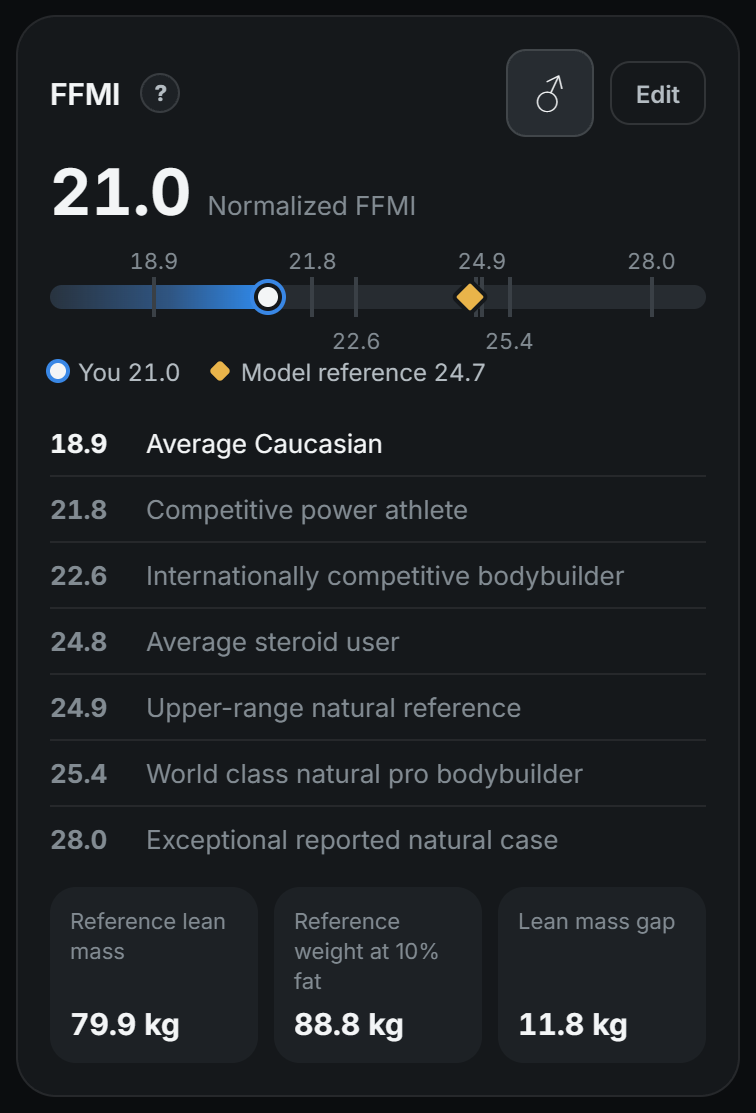
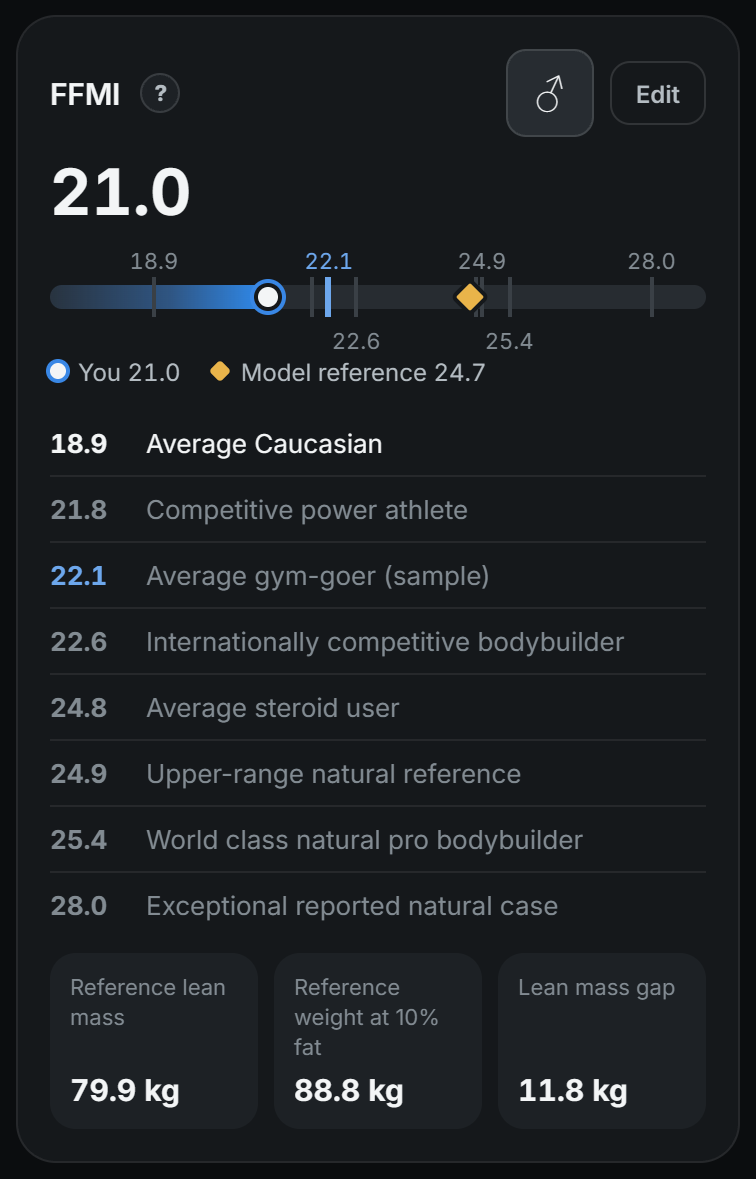
Add researched gym-goer sample points to the FFMI scale

diff --git a/frontend/src/FfmiCard.tsx b/frontend/src/FfmiCard.tsx
@@ -4,11 +4,11 @@ import { FfmiHelp } from './FfmiHelp';
 import { PopupDialog } from './PopupDialog';
 import {
   DEFAULT_FFMI_PROFILE,
-  FFMI_COMPARISON,
   FFMI_TICK_LABELS_BELOW,
   FFMI_UNLABELLED_TICKS,
   ffmiScalePercent,
   ffmiScore,
+  ffmiComparisons,
   latestBodyFatMeasurement,
   lengthFromCm,
   lengthToCm,
@@ -31,18 +31,37 @@ function inputValue(cm: number | null, unit: 'kg' | 'lb'): string {
   return cm === null ? '' : String(lengthFromCm(cm, unit));
 }
 
-export function FfmiScale({ ffmi, maxFfmi }: { ffmi: number; maxFfmi: number | null }) {
+export function FfmiScale({
+  ffmi,
+  maxFfmi,
+  sex,
+}: {
+  ffmi: number;
+  maxFfmi: number | null;
+  sex: 'male' | 'female';
+}) {
+  const comparisons = ffmiComparisons(sex);
+  const gym = comparisons.find((point) => point.gym)!;
   const position = (value: number) => ({ left: `${ffmiScalePercent(value)}%` }) as CSSProperties;
   const labels = (below: boolean) => (
     <div className={`ffmi-scale-ticks${below ? ' below' : ''}`} aria-hidden="true">
-      {FFMI_COMPARISON.filter(
-        ({ value }) =>
-          !FFMI_UNLABELLED_TICKS.has(value) && FFMI_TICK_LABELS_BELOW.has(value) === below,
-      ).map(({ value }) => (
-        <span key={value} className="ffmi-scale-tick" style={position(value)}>
-          <i>{value.toFixed(1)}</i>
-        </span>
-      ))}
+      {comparisons
+        .filter(
+          ({ value }) =>
+            !FFMI_UNLABELLED_TICKS.has(value) &&
+            // The new male 22.1 label is too close to 21.8; both points stay in the legend.
+            !(sex === 'male' && value === 21.8) &&
+            FFMI_TICK_LABELS_BELOW.has(value) === below,
+        )
+        .map(({ value, gym }) => (
+          <span
+            key={value}
+            className={`ffmi-scale-tick${gym ? ' gym' : ''}`}
+            style={position(value)}
+          >
+            <i>{value.toFixed(1)}</i>
+          </span>
+        ))}
     </div>
   );
   return (
@@ -51,11 +70,15 @@ export function FfmiScale({ ffmi, maxFfmi }: { ffmi: number; maxFfmi: number | n
       <div
         className="ffmi-scale-track"
         role="img"
-        aria-label={`Your FFMI ${ffmi.toFixed(1)}${maxFfmi === null ? '' : `, model reference ${maxFfmi.toFixed(1)}`}, on a scale from 17 to 29`}
+        aria-label={`Your FFMI ${ffmi.toFixed(1)}${maxFfmi === null ? '' : `, model reference ${maxFfmi.toFixed(1)}`}, average ${sex} gym-goer sample ${gym.value.toFixed(1)}, on a scale from 17 to 29`}
       >
         <span className="ffmi-scale-fill" style={{ width: `${ffmiScalePercent(ffmi)}%` }} />
-        {FFMI_COMPARISON.map(({ value }) => (
-          <span key={value} className="ffmi-scale-line" style={position(value)} />
+        {comparisons.map(({ value, gym }) => (
+          <span
+            key={value}
+            className={`ffmi-scale-line${gym ? ' gym' : ''}`}
+            style={position(value)}
+          />
         ))}
         {maxFfmi !== null && <span className="ffmi-scale-marker max" style={position(maxFfmi)} />}
         <span className="ffmi-scale-marker you" style={position(ffmi)} />
@@ -247,12 +270,11 @@ export function FfmiCard({
         <>
           <div className="ffmi-score">
             <strong>{ffmi.toFixed(1)}</strong>
-            <span>{profile.sex === 'male' ? 'Normalized FFMI' : 'Gender-adjusted FFMI'}</span>
           </div>
-          <FfmiScale ffmi={ffmi} maxFfmi={potential?.maxFfmi ?? null} />
+          <FfmiScale ffmi={ffmi} maxFfmi={potential?.maxFfmi ?? null} sex={profile.sex!} />
           <ol className="ffmi-legend">
-            {FFMI_COMPARISON.map(({ value, label }) => (
-              <li key={value} className={ffmi >= value ? 'reached' : ''}>
+            {ffmiComparisons(profile.sex!).map(({ value, label, gym }) => (
+              <li key={value} className={`${ffmi >= value ? 'reached' : ''}${gym ? ' gym' : ''}`}>
                 <strong>{value.toFixed(1)}</strong>
                 <span>{label}</span>
               </li>

diff --git a/frontend/src/FfmiCard.test.tsx b/frontend/src/FfmiCard.test.tsx
@@ -92,12 +92,28 @@ describe('FfmiCard', () => {
     );
     expect(host.querySelectorAll('.ffmi-model-toggle')).toHaveLength(1);
     expect(modelButton().textContent?.trim()).toBe('\u2642');
+    expect(host.querySelector('.ffmi-legend .gym')?.textContent).toBe(
+      '22.1Average gym-goer (sample)',
+    );
+    expect(
+      parseFloat((host.querySelector('.ffmi-scale-line.gym') as HTMLElement).style.left),
+    ).toBeCloseTo(42.5);
+    expect(host.querySelector('.ffmi-score span')).toBeNull();
 
     await act(async () => modelButton().click());
     expect(api.updateFfmiProfile).toHaveBeenLastCalledWith({ ...stored, sex: 'female' });
     expect(host.querySelector('.ffmi-scale-key')?.textContent).toBe('You 21.2Model reference 24.7');
     expect(modelButton().getAttribute('aria-label')).toBe('Female FFMI model. Switch to male.');
     expect(modelButton().textContent?.trim()).toBe('\u2640');
+    expect(host.querySelector('.ffmi-legend .gym')?.textContent).toBe(
+      '20.6Average gym-goer (sample)',
+    );
+    expect(
+      parseFloat((host.querySelector('.ffmi-scale-line.gym') as HTMLElement).style.left),
+    ).toBeCloseTo(30);
+    expect(host.querySelector('.ffmi-scale-track')?.getAttribute('aria-label')).toContain(
+      'average female gym-goer sample 20.6',
+    );
 
     await act(async () => root.render(null));
     await act(async () => root.render(<FfmiCard measurements={measurements} />));
@@ -202,7 +218,7 @@ describe('FfmiCard', () => {
     expect(api.updateFfmiProfile).toHaveBeenCalledWith(saved);
     expect(host.querySelector('.ffmi-score strong')?.textContent).toBe('22.9');
     expect(host.querySelector('.ffmi-scale-key')?.textContent).toBe('You 22.9Model reference 26.9');
-    expect(host.querySelectorAll('.ffmi-legend li.reached')).toHaveLength(3);
+    expect(host.querySelectorAll('.ffmi-legend li.reached')).toHaveLength(4);
     expect(host.querySelector('.ffmi-potential')?.textContent).toContain(
       'Reference weight at 13% fat',
     );
@@ -237,7 +253,7 @@ describe('FfmiCard', () => {
     await render({ ...emptyProfile, sex: 'female', height_cm: 165 }, [
       { ...measurements[0], weight_kg: 60, body_fat_pct: 22 },
     ]);
-    expect(host.querySelector('.ffmi-score span')?.textContent).toBe('Gender-adjusted FFMI');
+    expect(host.querySelector('.ffmi-score span')).toBeNull();
     expect(host.querySelector('.ffmi-scale-key')?.textContent).toBe('You 21.2Model reference 24.7');
   });
 });

diff --git a/frontend/src/FfmiHelp.tsx b/frontend/src/FfmiHelp.tsx
@@ -64,6 +64,14 @@ export function FfmiHelp({ title = 'FFMI', children }: { title?: string; childre
                 be above or below these model assumptions.
               </p>
               <p>
+                <strong>Gym-goer comparison.</strong> The extra point shows a training-sample
+                average: 22.1 for men, or 20.6 for women on this app's adjusted scale (16.7 before
+                adjustment). These come from separate, mostly young training groups, not a
+                representative survey of all gym members or a drug-free standard. The male sample
+                used self-reported body measurements; the female sample used scans. Training
+                experience, age and measurement method affect comparisons.
+              </p>
+              <p>
                 <strong>Reading the comparison.</strong> A model reference of 24.7 and the
                 exceptional reported case at 28.0 are different comparisons, not guaranteed
                 outcomes. The men's model assumes roughly 4 to 12% body fat. Measurement errors

diff --git a/frontend/src/ffmi.ts b/frontend/src/ffmi.ts
@@ -23,11 +23,23 @@ export const FFMI_COMPARISON: readonly { value: number; label: string }[] = [
   { value: 28.0, label: 'Exceptional reported natural case' },
 ];
 
+/** Training-sample means, not representative gym-member norms. See docs/FFMI-BENCHMARKS.md. */
+export function ffmiComparisons(sex: 'male' | 'female') {
+  const gym = {
+    value: sex === 'male' ? roundOne(22.09) : roundOne(16.7 / 0.81),
+    label: 'Average gym-goer (sample)',
+    gym: true,
+  };
+  return [...FFMI_COMPARISON.map((point) => ({ ...point, gym: false })), gym].sort(
+    (a, b) => a.value - b.value,
+  );
+}
+
 /** 24.8 sits on top of 24.9, so only the legend names it. */
 export const FFMI_UNLABELLED_TICKS = new Set([24.8]);
 
 /** Neighbours too close to label on the same side of a phone-width scale. */
-export const FFMI_TICK_LABELS_BELOW = new Set([22.6, 25.4]);
+export const FFMI_TICK_LABELS_BELOW = new Set([20.6, 22.6, 25.4]);
 
 export const DEFAULT_FFMI_PROFILE: FfmiProfile = {
   sex: null,

diff --git a/frontend/src/ffmi.test.ts b/frontend/src/ffmi.test.ts
@@ -3,6 +3,7 @@ import {
   DEFAULT_FFMI_PROFILE,
   ffmiScalePercent,
   ffmiScore,
+  ffmiComparisons,
   latestBodyFatMeasurement,
   lengthFromCm,
   lengthToCm,
@@ -80,6 +81,22 @@ describe('naturalPotential', () => {
 });
 
 describe('FFMI helpers', () => {
+  it('plots training-sample means in the same units as each sex model, in scale order', () => {
+    for (const [sex, expected] of [
+      ['male', 22.1],
+      ['female', 20.6],
+    ] as const) {
+      const points = ffmiComparisons(sex);
+      expect(points.filter((point) => point.gym)).toEqual([
+        { value: expected, label: 'Average gym-goer (sample)', gym: true },
+      ]);
+      expect(points.map((point) => point.value)).toEqual(
+        points.map((point) => point.value).sort((a, b) => a - b),
+      );
+      expect(points).toHaveLength(8);
+    }
+  });
+
   it('uses the newest check-in that has body fat', () => {
     const measurements = [
       checkIn('2026-10-20', null),

diff --git a/frontend/src/FfmiHelp.test.tsx b/frontend/src/FfmiHelp.test.tsx
@@ -58,7 +58,9 @@ it.each(['FFMI', 'Body measurements'])(
       'not the general-public average or a prediction of your genetic limit.',
     );
     expect(document.querySelector('dialog a')).toBeNull();
-    expect(document.querySelectorAll('dialog p')).toHaveLength(5);
+    expect(document.querySelectorAll('dialog p')).toHaveLength(6);
+    expect(document.body.textContent).toContain('22.1 for men, or 20.6 for women');
+    expect(document.body.textContent).toContain('not a representative survey of all gym members');
     await act(async () => button('Back to overview').click());
     expect(document.querySelector('dialog h2')?.textContent).toBe(title);
     expect(document.body.textContent).not.toContain('Your score.');

diff --git a/frontend/src/ffmi.css b/frontend/src/ffmi.css
@@ -85,11 +85,6 @@ button.ffmi-methodology-link {
   line-height: 1;
 }
 
-.ffmi-score span {
-  color: var(--p-muted);
-  font-size: 0.8125rem;
-}
-
 .ffmi-scale {
   margin-top: 0.75rem;
 }
@@ -138,6 +133,16 @@ button.ffmi-methodology-link {
   width: 2px;
   transform: translateX(-50%);
   background: var(--p-axis);
+}
+
+.ffmi-scale-line.gym {
+  width: 3px;
+  background: var(--p-accent-text);
+}
+
+.ffmi-scale-tick.gym i,
+.ffmi-legend li.gym strong {
+  color: var(--p-accent-text);
 }
 
 .ffmi-scale-marker {

diff --git a/docs/RELEASE-NOTES.md b/docs/RELEASE-NOTES.md
@@ -34,11 +34,11 @@ _Select a body part to follow its own measurement history. Missing values are sk
 
 ![Short FFMI methodology summary explaining the model reference and measurement guidance](screenshots/releases/1.1.0-ffmi-methodology.png)
 
-_Both existing Body measurements and FFMI question-marks show a short introduction. Learn more opens the full methodology inside the app, with Back to overview. The explanation is summarised without study names or external source links._
+_Both existing Body measurements and FFMI question-marks show a short introduction. Learn more opens the full methodology inside the app, with Back to overview. The summary also explains the gym-goer sample means and adjustment, without study names or external source links._
 
 ![FFMI card with one sex icon button, score 21.0 and Model reference 24.7](screenshots/releases/1.1.0-ffmi.png)
 
-_Tap the single sex icon to switch models, save the selection and recalculate the comparison. Switching keeps saved measurements. Model reference is a trained-lifter benchmark adjusted using the selected profile, rather than a prediction of an individual genetic limit. Synthetic sample data._
+_Tap the single sex icon to switch models, save the selection and recalculate the comparison. Switching keeps saved measurements. Model reference is a trained-lifter benchmark adjusted using the selected profile, rather than a prediction of an individual genetic limit. The score subtitle is removed and the blue gym-goer sample point changes with the sex model. Synthetic sample data._
 
 ![Import review mapping Flat bench (old app) to Barbell Bench Press with no new exercises](screenshots/releases/1.1.0-import-exercise-mapping.png)
 
@@ -121,7 +121,7 @@ _The exercise card ends at Add set. Set notes and workout notes remain available
 _The circular Start button matches its workout choices. Isolated sample data._
 
 - **Body measurements:** log dated circumferences for neck, shoulders, chest, waist, hips, left/right upper arms, thighs and calves, wrist and ankle. Filter history by body part for dated values and changes from the previous recorded measurement, edit or delete entries, and use cm or inches with your unit preference. No weigh-in is required; records stay private and are included in account backups.
-- Body shows your FFMI on a 17 to 29 comparison scale alongside a Model reference benchmark. The reference is based on groups of trained lifters and uses the selected profile; it is not a prediction of your genetic limit or a general-public average. Reference lean mass, reference weight at your target body fat and the lean mass gap use the same model. Both existing question-marks offer brief help and an in-app Learn more explanation, now summarised without named studies or external source links. Tap the single sex icon beside FFMI to switch between male and female models, save the selection to your account and recalculate the scale. Height, wrist, ankle and target body fat stay saved when switching models, including through Edit.
+- Body shows your FFMI on a 17 to 29 comparison scale alongside a Model reference benchmark. The reference is based on groups of trained lifters and uses the selected profile; it is not a prediction of your genetic limit or a general-public average. Reference lean mass, reference weight at your target body fat and the lean mass gap use the same model. Both existing question-marks offer brief help and an in-app Learn more explanation, now summarised without named studies or external source links. Tap the single sex icon beside FFMI to switch between male and female models, save the selection to your account and recalculate the scale. Height, wrist, ankle and target body fat stay saved when switching models, including through Edit. The score subtitle has been removed. An extra gym-goer sample-average point switches between 22.1 for men and 20.6 for women on the adjusted scale; the help explains that these are separate training samples, not representative averages for all gym members.
 - In Equipment photo, choose Select to pick multiple saved machines, review their cover, name and future settings, then merge them. All photos and workout links are kept together, including older drafts; settings recorded in existing workouts stay unchanged.
 
 - Set your own five heart-rate zone ranges with Edit on Training > Cardio > Weekly zone goals, below History. Keep the default 150-minute weekly Zone 2 target, change its minutes or zone, and add separate weekly goals for other zones. Once ranges are set, average heart rate estimates each session's zone and only matching sessions count towards that zone's goal; missing or out-of-range heart rate receives no zone credit. Until then, sessions keep counting as Zone 2 as before. A brief text notification shows the result. Editing ranges recalculates existing sessions and goals; cardio logged inside workouts follows the same rules.

diff --git a/docs/FFMI-BENCHMARKS.md b/docs/FFMI-BENCHMARKS.md
@@ -1,0 +1,28 @@
+# FFMI gym-goer comparison
+
+The chart's **Average gym-goer (sample)** point is a training-sample reference, not a
+representative estimate of every gym member. It changes with the saved sex model.
+No source links or study names are rendered in the app's help.
+
+- **Men: 22.1.** Rounded from 22.09, the reported FFMI mean for 248 men who trained
+  with weights at least twice weekly. Their mean age was about 26, with roughly five
+  years of training. Body measurements were self-reported; some participants
+  reported performance-enhancing drug use. This is not a drug-free norm.
+  [Original research, table 1 and methods](https://www.frontiersin.org/journals/psychology/articles/10.3389/fpsyg.2016.01992/full).
+- **Women: 20.6 on the app's scale.** The reported unadjusted mean was 16.7 in 47
+  resistance-trained women, measured using DXA including bone mineral content.
+  Their mean age was about 20. The app divides female FFMI by 0.81, so the plotted
+  comparison is `round(16.7 / 0.81, 1) = 20.6`, rather than plotting the raw 16.7
+  against adjusted scores.
+  [Original conference abstract, number 756, page 162](https://sports.vtcus.com/docs/default-source/event-documents/annual-meeting-documents/2018-minneapolis-mn/full-2018-abstract-file.pdf?sfvrsn=e25d42e2_2)
+  ([DOI](https://doi.org/10.1249/01.mss.0000535621.14086.ab)).
+
+These are separate convenience samples with different measurement methods and
+training histories. Their difference does not quantify a sex effect. Neither point
+is a personal target, genetic limit, health threshold, or estimate of drug use.
+Body-fat measurement error also changes the user's calculated score. The existing
+model reference and other historical comparison points retain their formulas.
+
+The plotted point and legend are qualified as a sample average; the existing
+methodology popup explains the adjustment and limitations. Numeric precision is
+display rounding, not evidence that a population average is known to one decimal.
